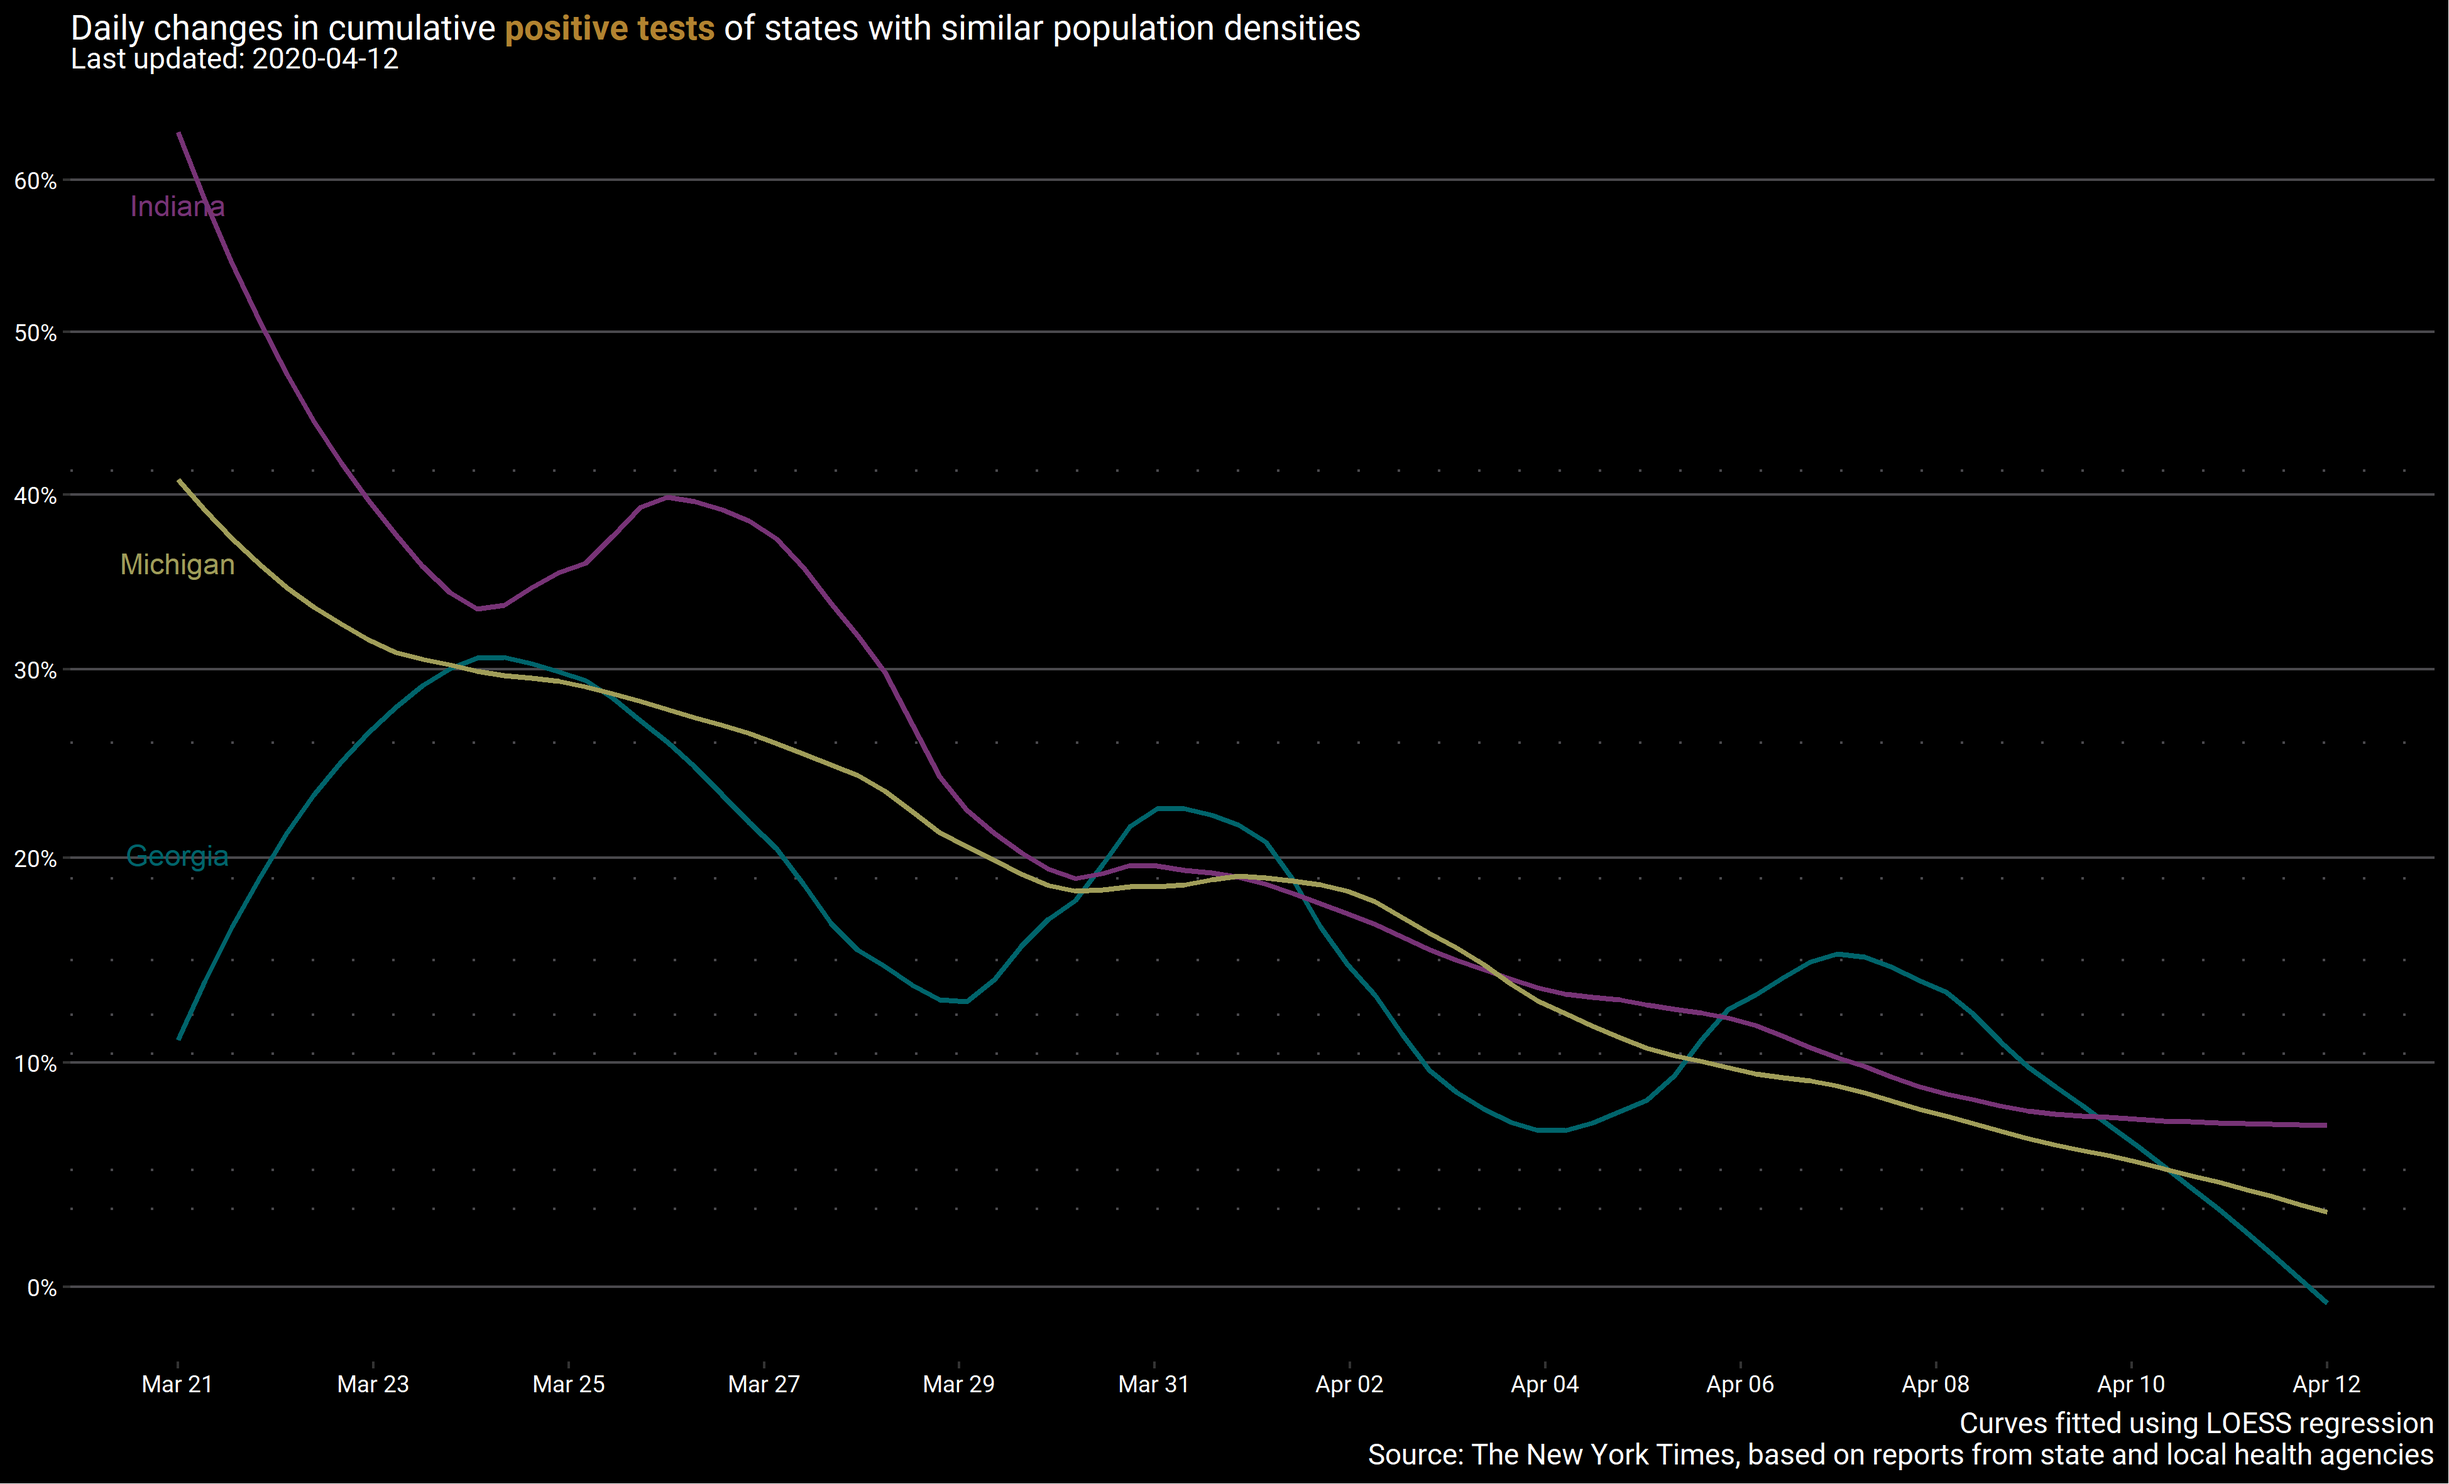
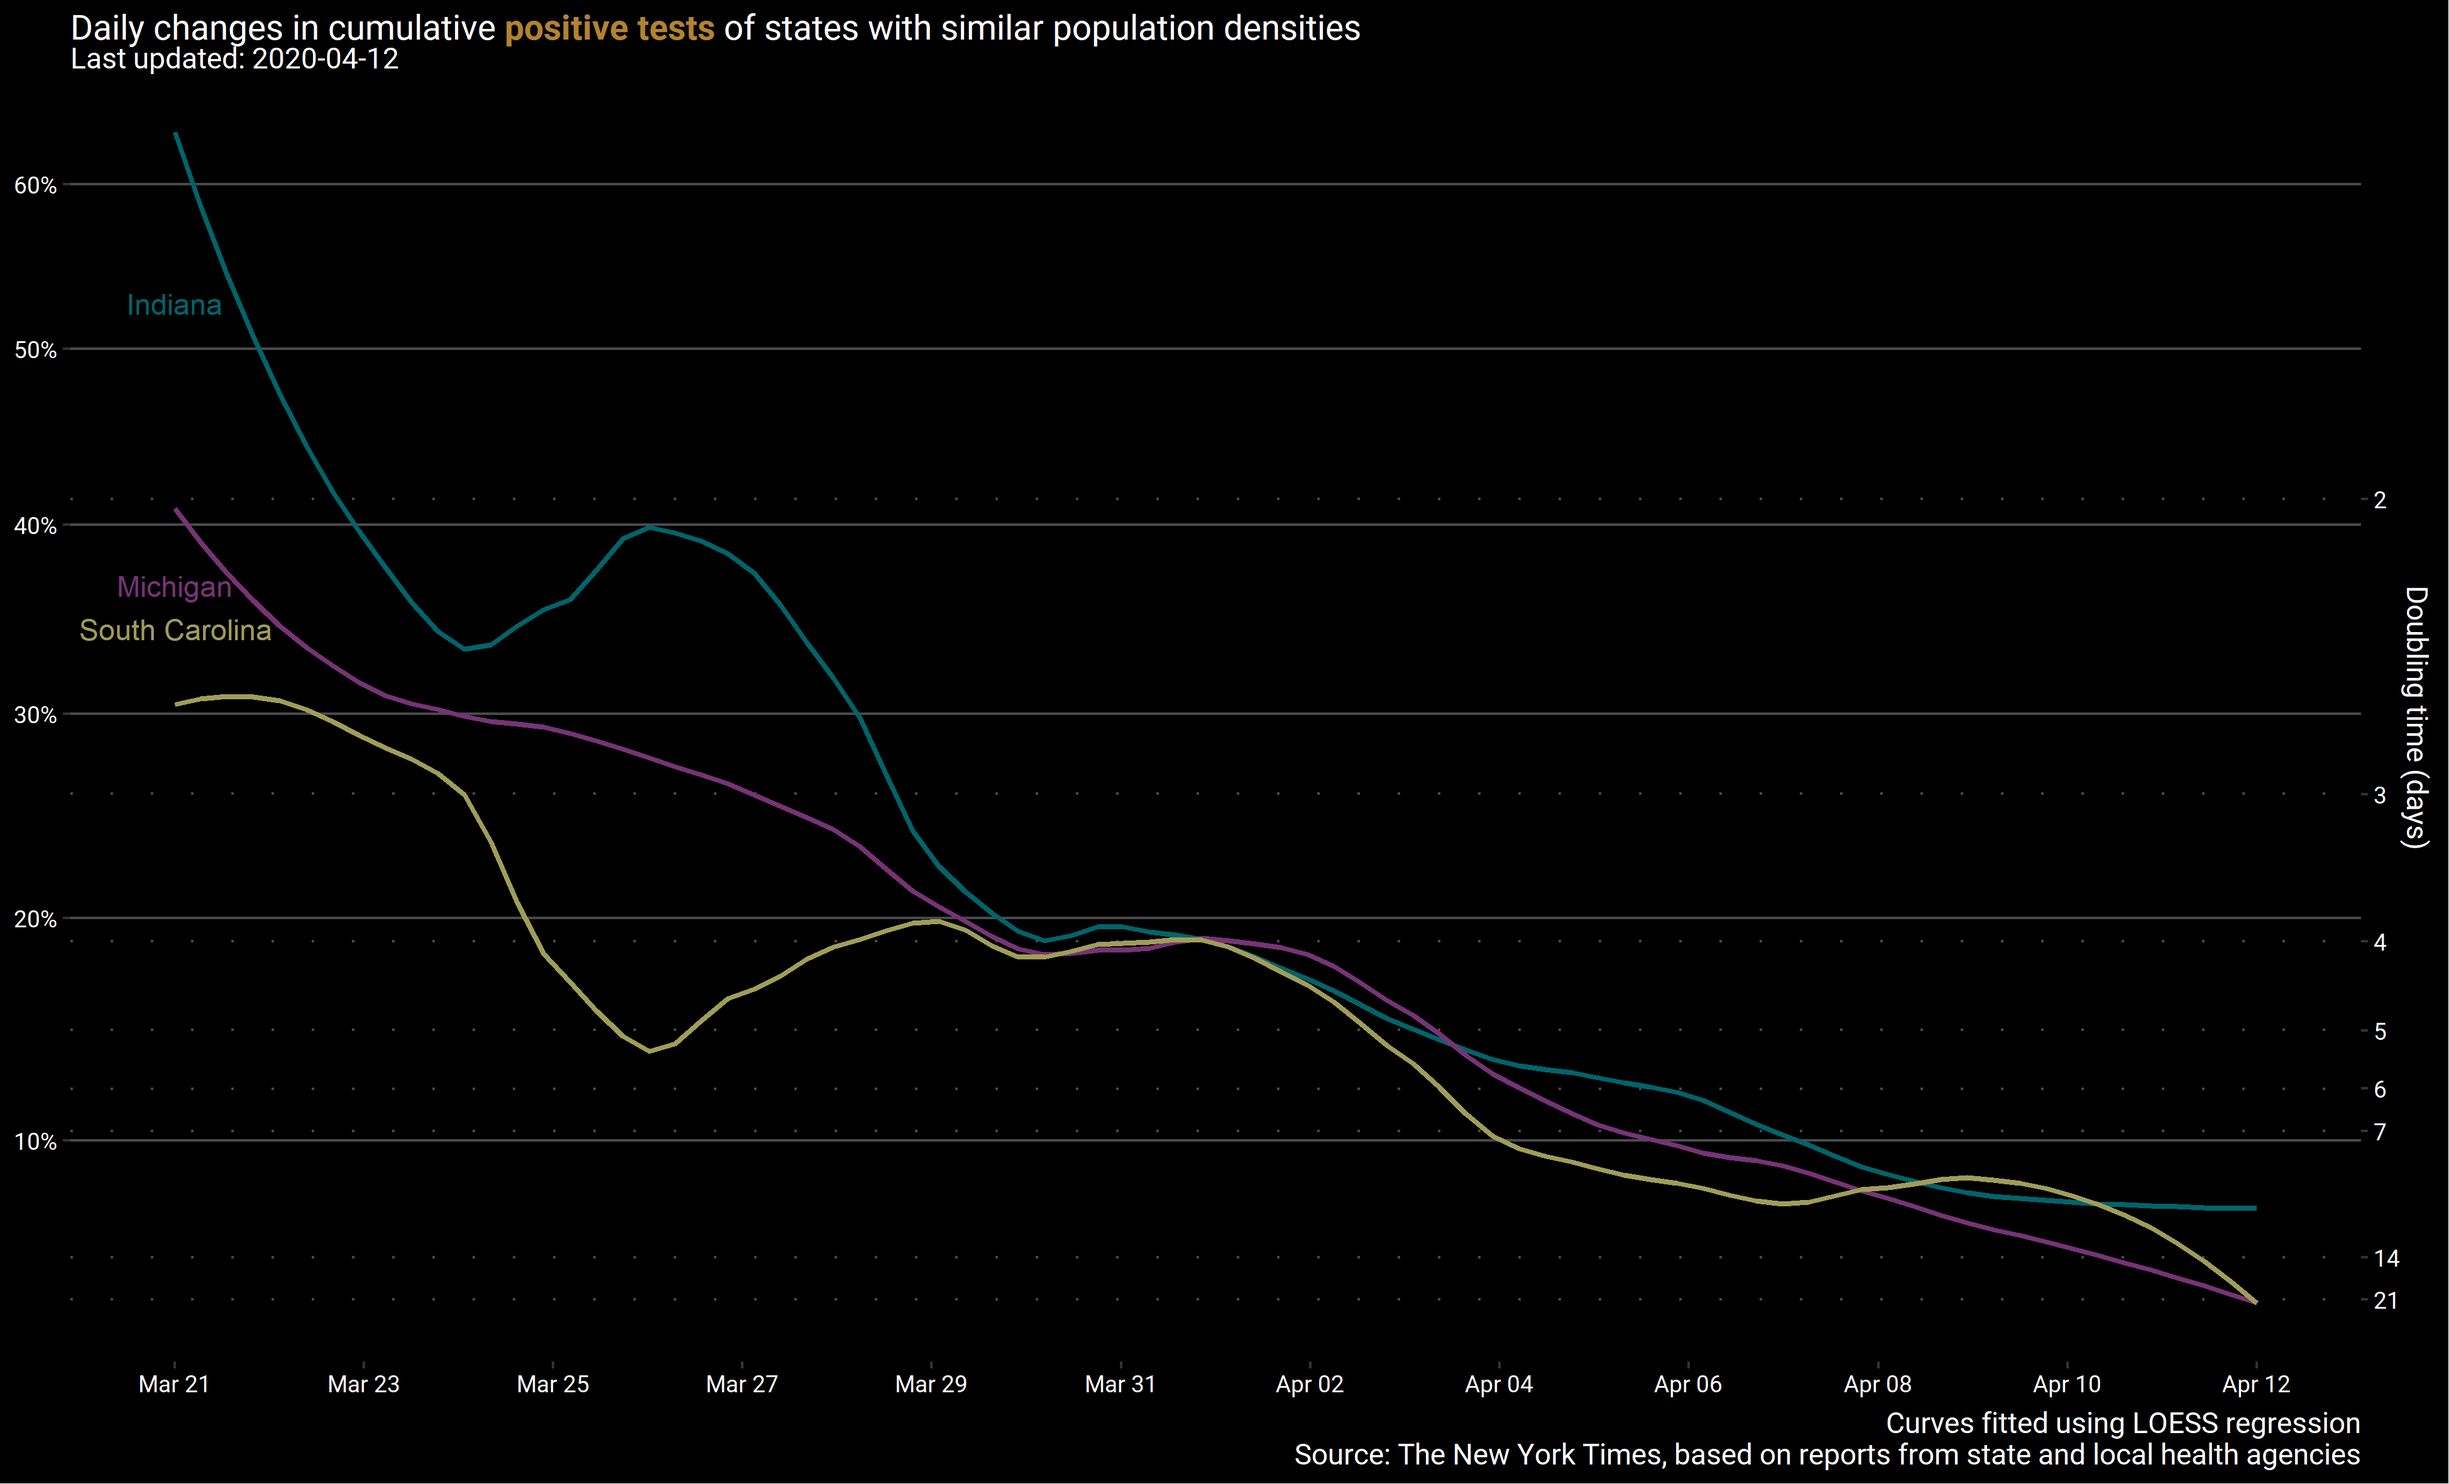
Replaced Georgia with South Carolina due to data concerns

diff --git a/README.md b/README.md
@@ -44,7 +44,13 @@ and the Indiana State Department of Heath Twitter
 
   - Doubling times, as shown in the previous equation, are calculated
     from growth rates, so I’ve included a second y-axis to show how
-    these have changed over time as well.
+    these have changed over time as well.  
+
+  - Previous versions of this chart included Georgia. As of 2020-04-12,
+    Georgia started separating non-state residents from their patient
+    counts. Neither The New York Times nor Georgia adjusted the counts
+    prior to the change. Without an adjustment, it destroyed the
+    coherence of the data, so I’ve replaced them with South Carolina.
 
 <img src="plots/region-dea-line-2020-04-12.png" width="3897" />
 
